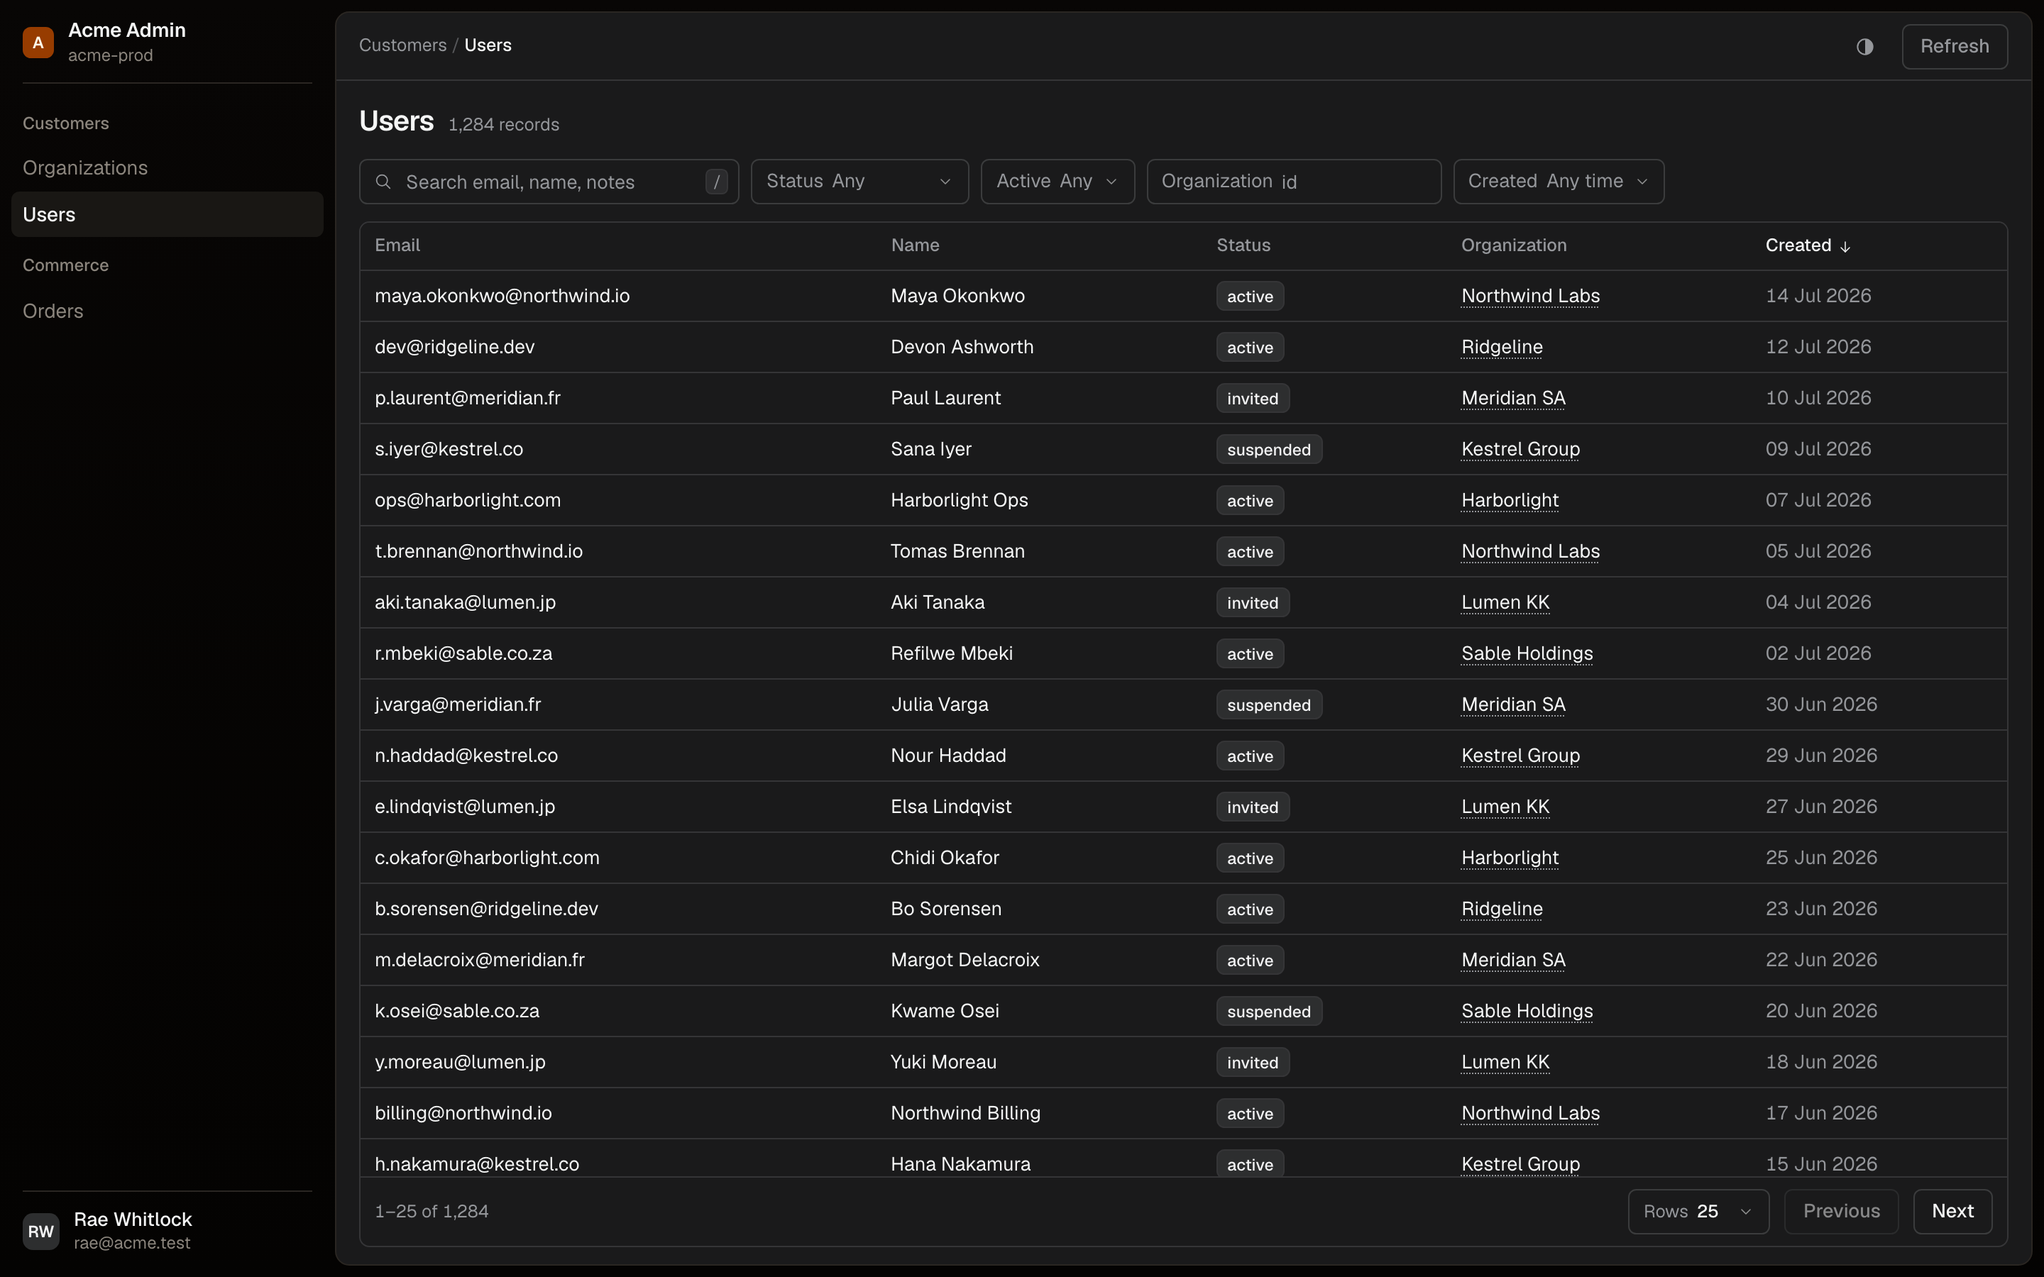
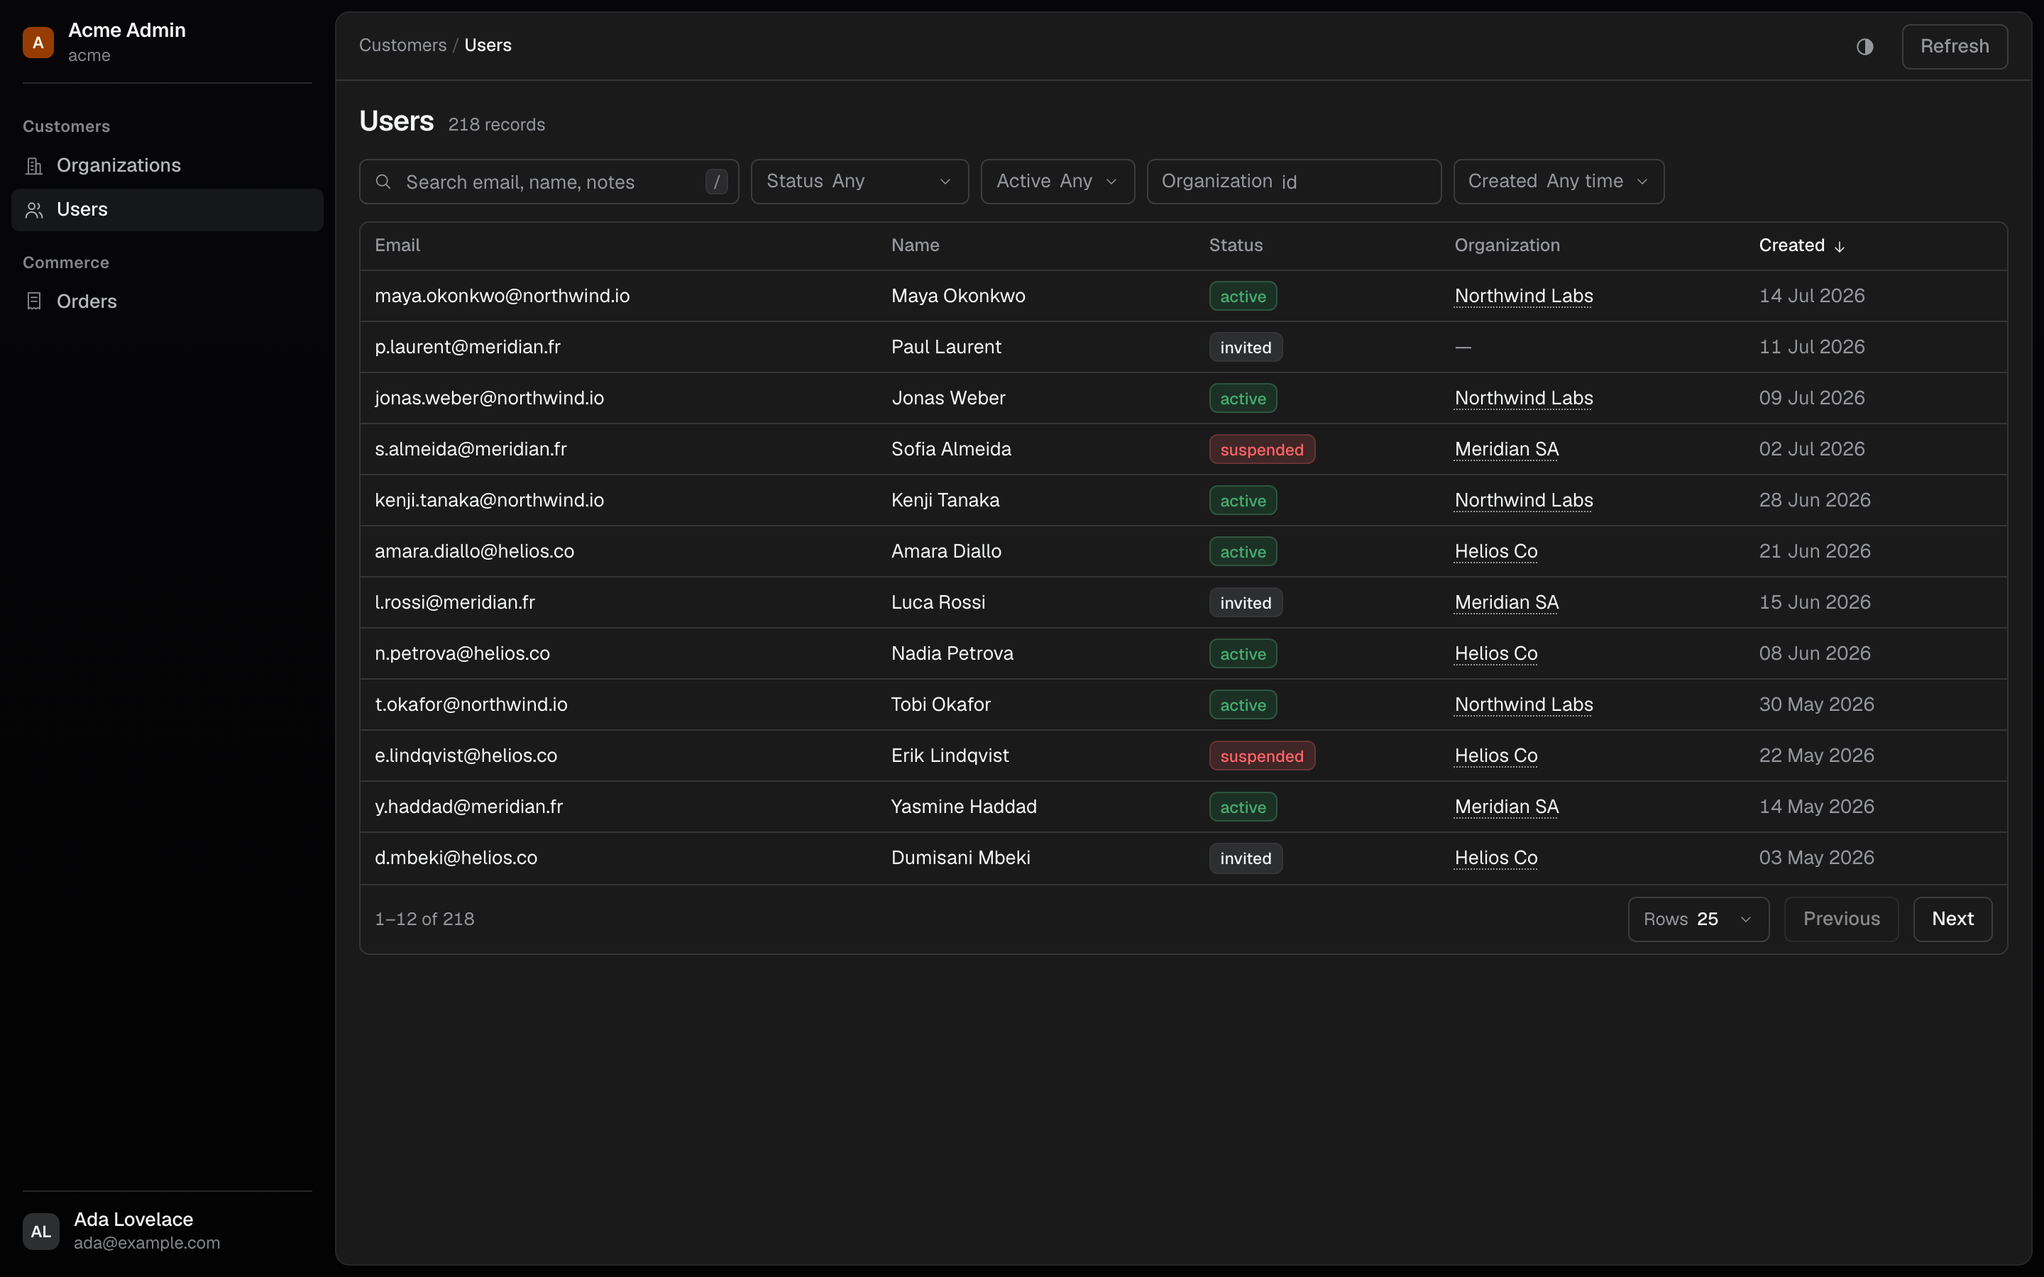
feat: unify chrome cool across both themes
The runtime's chrome takes the console's: six tokens — the two gradient stops,
the active-nav fill, the hairline, and the two sidebar text colours — in both
themes. `.theme-runtime` and `.theme-console` now hold the same values to the
digit. They stay two layers regardless: the mechanism is not there so that these
two can differ, it is there so a customer's can (#035).

Decided from pixels. §1 ran the chrome warm so a field of five hundred records
would not read as more chrome, and that distinction is real — but rendering the
runtime's own table page both ways showed the hue was not what carried it. The
lightness step and the hairline were, and are: .7737 against 1.0000 in light,
.0019 against .0104 in dark. What the warmth was adding on a screen this quiet
was being the loudest thing on it.

Every lightness holds to within 0.002 of what it was, which is why §2's ladder
needed no re-deriving. `--primary` #bb4d00 is untouched and is now the only warm
object anywhere in RePanel, which is what an accent is for.

Floor re-measured on the running app rather than reasoned about: 20 text styles
light, 22 dark, zero below AA, tightest 4.74 / 4.79 — both badges, at §4's own
numbers. No overflow at 1440 or 768.

DESIGN.md §1 replaces the two-colour-families paragraph with the correction, §2
and §11 take the new values, §7 records the re-measurement, and the
chrome-unification open item is closed. table-{light,dark}.png re-shot; the rest
[…]

diff --git a/packages/ui/src/tokens.css b/packages/ui/src/tokens.css
@@ -202,9 +202,15 @@
    * floats in are the same gradient, falling slightly top to bottom across the
    * whole screen. They were two tones once, and the seam that left down the
    * panel's margin read as a mistake rather than as a step.
+   *
+   * It is cool, and it used to be warm. The warmth was there to keep the chrome
+   * from reading as more table; built and shot beside a cool one, what actually
+   * carries that distinction is the lightness step and the hairline, and the
+   * hue was only making the chrome the loudest thing on a quiet screen
+   * (DECISIONS #037, DESIGN.md §1). Both layers now share one temperature.
    */
-  --paint-sidebar-top: #e7e3de;
-  --paint-sidebar-bottom: #dfdbd6;
+  --paint-sidebar-top: #e2e4e6;
+  --paint-sidebar-bottom: #dadcde;
   /* The ground, which is the chrome — never a colour of its own. */
   --paint-page: var(--paint-sidebar-top);
   --paint-background: #ffffff;
@@ -212,7 +218,7 @@
   --paint-muted: #f2f3f3; /* the row under the cursor */
   --paint-accent: #eff0f1;
   --paint-secondary: #ecedee;
-  --paint-sidebar-accent: #f7f4f0;
+  --paint-sidebar-accent: #f3f4f7;
 
   --paint-foreground: #0a0b0b;
   --paint-card-foreground: #0a0b0b;
@@ -224,8 +230,8 @@
    * chrome and the panel's would flatten it: a resource name at rest, and the
    * group label naming a list of them, which must sit behind what it names.
    */
-  --paint-sidebar-foreground: #4a443b;
-  --paint-sidebar-muted: #665e53;
+  --paint-sidebar-foreground: #434548;
+  --paint-sidebar-muted: #5e5f63;
   /* Utility chrome sits one step behind the data it frames — in dark only,
      where it would otherwise outshine it. */
   --paint-utility-foreground: var(--paint-foreground);
@@ -254,28 +260,28 @@
   --paint-border: #e0e1e3;
   --paint-input: #dbdcde;
   --paint-ring: #a4a5a8;
-  --paint-sidebar-border: #d5d0ca;
+  --paint-sidebar-border: #cfd1d4;
 }
 
 /* Dark re-points the same names, so every utility built from the contract
    follows without a `dark:` class anywhere in a component. */
 .theme-runtime.dark {
-  --paint-sidebar-top: #080605;
-  --paint-sidebar-bottom: #040302;
+  --paint-sidebar-top: #060608;
+  --paint-sidebar-bottom: #030304;
   --paint-background: #1a1a1b;
   --paint-card: #222324;
   --paint-muted: #2b2b2d;
   --paint-accent: #2b2b2d;
   --paint-secondary: #2d2e2f;
-  --paint-sidebar-accent: #191714;
+  --paint-sidebar-accent: #161719;
 
   --paint-foreground: #f5f6f6;
   --paint-card-foreground: #f5f6f6;
   --paint-muted-foreground: #95979b;
   --paint-accent-foreground: #f5f6f6;
   --paint-secondary-foreground: #f3f3f4;
-  --paint-sidebar-foreground: #bdb7ae;
-  --paint-sidebar-muted: #8b857d;
+  --paint-sidebar-foreground: #b6b8bc;
+  --paint-sidebar-muted: #84868a;
   --paint-utility-foreground: var(--paint-muted-foreground);
 
   --paint-primary: #973c00;
@@ -294,30 +300,25 @@
   --paint-border: #353537;
   --paint-input: #3b3c3d;
   --paint-ring: #7f8083;
-  --paint-sidebar-border: #2a2622;
+  --paint-sidebar-border: #262729;
 }
 
 /*
- * The console — RePanel's own control plane, and the runtime's palette almost
- * to the digit (task 014b, concept F).
+ * The console — RePanel's own control plane, and the runtime's palette to the
+ * digit.
  *
- * ONE THING DIFFERS, AND IT IS THE CHROME'S HUE. DESIGN.md §1 runs the chrome
- * warm on purpose — hue 78, so a screen whose content is five hundred records
- * reads as chrome-vs-content rather than as two shades of one grey. The console
- * has no such field: it is four cards and a list on a panel that is mostly
- * white space, and there the warmth stops being a distinction and becomes the
- * page's dominant colour. So the chrome moves onto the data surface's own hue
- * family at half its chroma — 74 -> 265, .008 -> .004 — with every lightness
- * held to within 0.002 of the runtime's, so §2's ladder is the same ladder and
- * its measurements are still true. It is a whisper of cool grey, not a blue
- * sidebar.
+ * It was the console that proposed the cool chrome, and for a while it was the
+ * only layer carrying it: §1 ran the chrome warm so a field of five hundred
+ * records would not read as more chrome, and a console — three cards and a list
+ * on mostly white space — has no such field to be told apart from. Shot side by
+ * side on the runtime's own table, the warmth turned out not to be what carried
+ * that distinction; the lightness step and the hairline were (DECISIONS #037).
+ * So the runtime took this chrome rather than the console keeping it alone, and
+ * the two layers are now the same values.
  *
- * The sidebar's two text tokens move with it at their own lightness, because a
- * warm text ladder on a cool ground reads as brown rather than as quiet.
- *
- * Every other value below is the runtime's, unchanged — including `--primary`,
- * which is better off here: on a cream chrome it was one warm thing among warm
- * things, and on a cool one it is the only warm thing on the screen.
+ * They stay two layers regardless. The mechanism is not here so that these two
+ * can differ — it is here so that a customer's can (DECISIONS #035), and a
+ * contract with one implementation is not a contract.
  */
 .theme-console {
   --paint-sidebar-top: #e2e4e6; /* runtime #e7e3de */

diff --git a/docs/design/DESIGN.md b/docs/design/DESIGN.md
@@ -43,15 +43,15 @@ because no component knows which layer it is standing on.
 
 | token | light | dark |
 |---|---|---|
-| `--sidebar-top` | `#e7e3de` | `#080605` |
-| `--sidebar-bottom` | `#dfdbd6` | `#040302` |
+| `--sidebar-top` | `#e2e4e6` | `#060608` |
+| `--sidebar-bottom` | `#dadcde` | `#030304` |
 | `--page` (the ground) | = `--sidebar-top` | = `--sidebar-top` |
 | `--background` (panel) | `#ffffff` | `#1a1a1b` |
 | `--card` | `#ffffff` | `#222324` |
 | `--muted` (row hover) | `#f2f3f3` | `#2b2b2d` |
 | `--accent` | `#eff0f1` | `#2b2b2d` |
 | `--secondary` | `#ecedee` | `#2d2e2f` |
-| `--sidebar-accent` (active nav) | `#f7f4f0` | `#191714` |
+| `--sidebar-accent` (active nav) | `#f3f4f7` | `#161719` |
 
 ### Text
 
@@ -61,8 +61,8 @@ because no component knows which layer it is standing on.
 | `--muted-foreground` | `#64666a` | `#95979b` |
 | `--accent-foreground` | `#191a1b` | `#f5f6f6` |
 | `--secondary-foreground` | `#1c1d1e` | `#f3f3f4` |
-| `--sidebar-foreground` | `#4a443b` | `#bdb7ae` |
-| `--sidebar-muted` | `#665e53` | `#8b857d` |
+| `--sidebar-foreground` | `#434548` | `#b6b8bc` |
+| `--sidebar-muted` | `#5e5f63` | `#84868a` |
 | `--utility-foreground` | `var(--foreground)` | `var(--muted-foreground)` |
 
 ### Accent, state, edges
@@ -84,13 +84,29 @@ because no component knows which layer it is standing on.
 | `--border` | `#e0e1e3` | `#353537` |
 | `--input` | `#dbdcde` | `#3b3c3d` |
 | `--ring` | `#a4a5a8` | `#7f8083` |
-| `--sidebar-border` | `#d5d0ca` | `#2a2622` |
+| `--sidebar-border` | `#cfd1d4` | `#262729` |
 
-**Two colour families, on purpose.** The chrome (sidebar, page) is warm — hue 78,
-following ref-1, which runs a warm sidebar against a neutral white panel so the
-screen reads as chrome-vs-content rather than two shades of one grey. The data
-surface is near-achromatic with a whisper of cool — hue 265 at 30% of the
-preset's chroma. Lightness values throughout are the preset's own.
+**One colour family, and the correction that got there.** This section ran two
+for most of the design's life: a warm chrome at hue 78, following ref-1, against
+a data surface that was near-achromatic with a whisper of cool at hue 265. The
+argument was that a warm sidebar against a neutral panel reads as
+chrome-vs-content rather than as two shades of one grey.
+
+**Half of that was right and the wrong half was doing the work.** The
+distinction is real and worth keeping; the hue was not what carried it. Task
+014b's console proposed a chrome on the data surface's own hue family at half
+its chroma, and the two were then rendered on the runtime's own table page and
+compared — same page, same layout, six tokens apart. What tells the chrome from
+the content in both is **the lightness step and the hairline**: .7737 against
+1.0000 in light, .0019 against .0104 in dark, with `--sidebar-border` between
+them. The warmth was not adding the distinction, it was adding a temperature —
+and on a screen this quiet it was the loudest thing on it. DECISIONS #037.
+
+So the chrome is cool, at hue 265 and chroma .004, and every neutral in this
+record is now one family. Lightness values throughout are unchanged, which is
+what let the correction be made without re-deciding §2. `--primary` `#bb4d00` is
+untouched and is the better for it: it is now the only warm object anywhere in
+RePanel, which is what an accent is for.
 
 `--radius: 0.45rem` (the preset's), with the preset's ramp: `sm .6x`, `md .8x`,
 `lg 1x`, `xl 1.4x`.
@@ -125,7 +141,7 @@ way, and the panel shadow was dropped for muddying the edge once the step was re
 
 | # | surface | dark | light |
 |---|---|---|---|
-| 1 | the chrome: sidebar **and** the ground the panel floats in | `#080605 → #040302` | `#e7e3de → #dfdbd6` |
+| 1 | the chrome: sidebar **and** the ground the panel floats in | `#060608 → #030304` | `#e2e4e6 → #dadcde` |
 | 2 | raised content panel | `#1a1a1b` | `#ffffff` |
 | 3 | row under the cursor | `#2b2b2d` | `#f2f3f3` |
 
@@ -135,8 +151,8 @@ is the *lightest* surface (`#ffffff`) and the row hover is a **darkening**
 
 **The chrome is one surface, not two.** This started as four steps, with the
 page a separate flat tone between the sidebar and the panel. Built, that step
-read as a seam down the panel's margin rather than as depth — two warm greys a
-hair apart look like a mistake, not a ladder. So the gradient moved from the
+read as a seam down the panel's margin rather than as depth — two greys a hair
+apart look like a mistake, not a ladder. So the gradient moved from the
 aside to the shell: it now falls across the whole screen, and the sidebar and
 the panel's margin are literally the same paint. `--page` is a reference to
 `--sidebar-top` rather than a value, so the two cannot drift apart again.
@@ -351,6 +367,16 @@ and table row; it is never removed, only restyled.
 This floor is a gate, not an aspiration: any token change re-runs the
 measurement before it lands.
 
+**Re-run for the cool chrome (DECISIONS #037).** Six tokens moved, so the gate
+was measured again on the running app rather than reasoned about: the table page
+in both themes at 1440 and at 768 gives **20 text styles light and 22 dark, zero
+below AA**, tightest 4.74 light and 4.79 dark — both the `positive`/`critical`
+badges, at the numbers §4 records for them, which is what tells you the chrome
+change reached nothing it should not have. No horizontal overflow at either
+width. The two sidebar text tokens were re-derived at their own lightness for
+the same reason the surfaces were: `--sidebar-foreground` measures 7.44:1 on the
+new chrome and `--sidebar-muted` 4.88:1.
+
 ---
 
 ## 8. Navigation is icon-and-text — the deferral, and its reversal
@@ -526,18 +552,24 @@ bottom.
 Selected from concept F (`concepts/console-f.html`), shot in
 `shots/console-014b/`.
 
-### The one deviation — the chrome's hue
+### The chrome this surface proposed, and both layers now share
 
-§1 runs the chrome warm on purpose: hue 78, so a screen whose content is a dense
-field of five hundred records reads as chrome-vs-content rather than as two
-shades of one grey. **That argument is about the field.** A console screen is
-three cards and a list on a panel that is mostly white space, and there the
-warmth stops being a distinction and becomes the page's dominant colour.
+For one commit the console was the only layer running a cool chrome, and this
+section recorded it as a deviation. It is not one any more: §1 took it, and the
+two layers hold the same values to the digit. What is worth keeping is *why the
+console found it* — the reasoning is about which surface a rule was written for,
+and that question will come up again.
 
-So `.theme-console` moves the chrome onto the data surface's own hue family at
-half its chroma — hue 74 → 265, chroma .008 → .004 — and nothing else.
+§1's chrome ran warm so a screen whose content is a dense field of five hundred
+records would read as chrome-vs-content rather than as two shades of one grey.
+**That argument is about the field.** A console screen is three cards and a list
+on a panel that is mostly white space, so there was nothing for the chrome to be
+told apart from, and the warmth stopped being a distinction and became the
+page's dominant colour — which is exactly what got the first console concept
+rejected. The proposal moved the chrome onto the data surface's own hue family
+at half its chroma (hue 74 → 265, chroma .008 → .004) and changed nothing else:
 
-| token | `.theme-runtime` | `.theme-console` | luminance |
+| token | was | is | luminance |
 |---|---|---|---|
 | `--sidebar-top` | `#e7e3de` | `#e2e4e6` | .7720 → .7737 |
 | `--sidebar-bottom` | `#dfdbd6` | `#dadcde` | .7121 → .7137 |
@@ -552,16 +584,18 @@ half its chroma — hue 74 → 265, chroma .008 → .004 — and nothing else.
 | `--sidebar-foreground` (dark) | `#bdb7ae` | `#b6b8bc` | .4774 → .4786 |
 | `--sidebar-muted` (dark) | `#8b857d` | `#84868a` | .2374 → .2379 |
 
-**Every lightness holds to within 0.002, so §2's ladder is the same ladder and
-its measurements are still true.** Only hue and chroma moved. The two text
+**Every lightness holds to within 0.002, which is the whole reason this could be
+taken back to the runtime at all** — §2's ladder is the same ladder and its
+measurements never needed re-deriving. Only hue and chroma moved. The two text
 tokens move with the surface they are read on, because a warm text ladder over a
 cool ground reads as brown rather than as quiet.
 
-`--primary` `#bb4d00` is untouched, and is better off: on a warm chrome it was
-one warm thing among warm things, and on a cool one it is the only warm thing on
-the screen, which is what an accent is for. It is spent where §1 and §10 already
-spend it — the project's mark, and the one control where there is exactly one
-thing to go ahead with — and nowhere else.
+Then the same six tokens were rendered on the runtime's own table page, warm and
+cool, and the cool one did not lose the chrome-vs-content distinction the warmth
+was supposed to be carrying — the lightness step and the hairline were carrying
+it all along. §1 records the correction; DECISIONS #037 records the decision.
+`shots/console-014b/runtime-chrome-{warm,cool}-{light,dark}.png` is what it was
+made from.
 
 ### Three structural additions, because a console is a different app
 
@@ -666,18 +700,3 @@ wrong price in front of an operator who is about to act on it — the one mistak
 an admin may not make. The answer is a schema addition that says the unit out
 loud (a `money` field type, or a currency slot on `number`), which is task 001's
 domain and a change to a public contract.
-
-**Chrome unification.** §11 gives the console a cool chrome and leaves the
-runtime warm, which means RePanel now paints two chromes. That is defensible —
-the argument for warmth is about a dense data field, and only one of the two
-surfaces has one — but it is also the first place the two apps look like two
-products, and the reason §1 gave for the warmth ("chrome-vs-content") is a
-reason the runtime still has.
-
-The question is whether `.theme-runtime` should take the same cool chrome, which
-would leave `--primary` as the only warm thing anywhere in RePanel. It is a
-change to four tokens and two text tokens on one layer, and to every runtime
-screenshot in `shots/`. It is deliberately not decided here: it is a decision to
-make from pixels rather than from an argument, and
-`shots/console-014b/runtime-chrome-{warm,cool}-{light,dark}.png` is the runtime's
-own table page rendered both ways for exactly that. Neither variant is committed.

diff --git a/docs/design/shots/README.md b/docs/design/shots/README.md
@@ -8,6 +8,15 @@ the same inputs the specs use, so what a shot shows is what a test asserts.
 picks the scenario, which is why the sidebar reads `acme-slow` on the loading
 shot and `acme-broken` on the error one.
 
+**Re-shot for the cool chrome.** `table-light.png` and `table-dark.png` are the
+canonical pair §2's ladder is read from, and they were taken again after
+DECISIONS #037 unified the chrome. The rest of this section predates that change
+and differs from the app only in the chrome's hue — six tokens, no lightness
+moved by more than 0.002 — so what they record about type, rhythm, states and
+layout still holds. They are kept rather than re-taken because they are the
+evidence particular rulings were made from, and re-taking them would quietly
+restate history.
+
 | | light | dark |
 |---|---|---|
 | Shell + table with data | `table-light.png` | `table-dark.png` |
